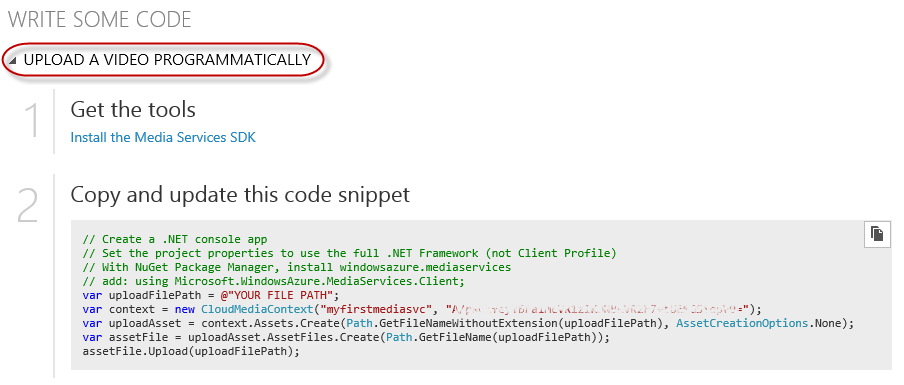
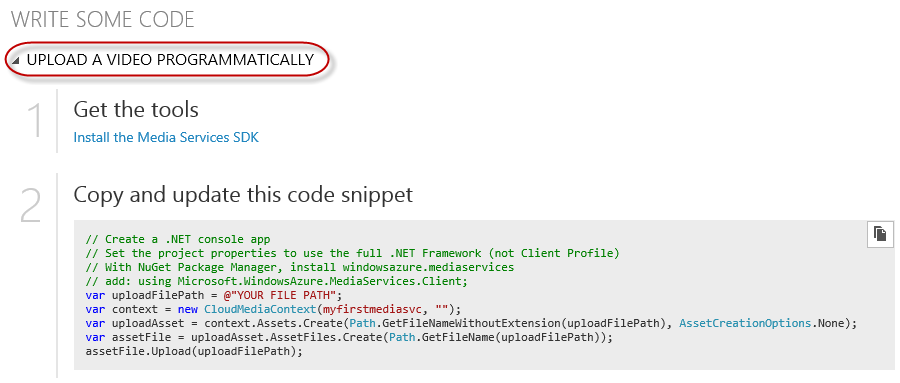
- Added steps to manage media service key.

diff --git a/Source/Ex2-ProgrammaticallyEncodingAndStreamingVideo/End/MyMediaServicesManager/Program.cs b/Source/Ex2-ProgrammaticallyEncodingAndStreamingVideo/End/MyMediaServicesManager/Program.cs
@@ -16,7 +16,7 @@ namespace MyMediaServicesManager
             Console.WriteLine("Uploading Video");
 
             var uploadFilePath = @"[YOUR FILE PATH]";
-            var context = new CloudMediaContext("[YOUR MEDIA SERVICE ACCOUNT NAME]", @"[YOUR MEDIA SERVICE ACCOUNT KEY]");
+            var context = new CloudMediaContext("[YOUR MEDIA SERVICE ACCOUNT NAME]", "[YOUR MEDIA SERVICE ACCOUNT KEY]");
             var uploadAsset = context.Assets.Create(Path.GetFileNameWithoutExtension(uploadFilePath), AssetCreationOptions.None);
             var assetFile = uploadAsset.AssetFiles.Create(Path.GetFileName(uploadFilePath));
             assetFile.Upload(uploadFilePath);

diff --git a/HOL.md b/HOL.md
@@ -242,6 +242,24 @@ In this exercise, you will create a new console application that allows you to p
 
 1. Update the code you just pasted to point to the video that you want to upload, by replacing the _YOUR FILE PATH_ string. It could be the same video used in the previous exercise. If you are going to do that it is recommended that you rename the video to differentiate it from the one uploaded in the first exercise of this lab.
 
+1. Go to your Media Service dashboard in the Management Portal and click **Manage Keys** button from the bottom toolbar.
+
+	![Manage Media Service Keys](images/manage-media-service-keys.png?raw=true)
+
+	_Managing Media Service Keys_
+
+1.	In the dialog box, copy the **Primary Media Service Access Key**.
+
+	![Copying Primary Media Service Key](images/copying-primary-media-service-key.png?raw=true)
+
+	_Copying Media Service Primary Key_
+
+1.	Replace the key you copied in previous step in the second parameter when instantiating a **CloudMediaContext** class.
+
+	````C#
+	var context = new CloudMediaContext("[YOUR-MEDIA-SERVICE-ACCOUNT-NAME]", "[YOUR-MEDIA-SERVICE-ACCOUNT-KEY]"); 
+	````
+
 <a name="programmatically-encoding-a-mp4-video" />
 ### Task 2 - Programmatically Encoding a Mp4 video using Smooth Streaming ###
 
